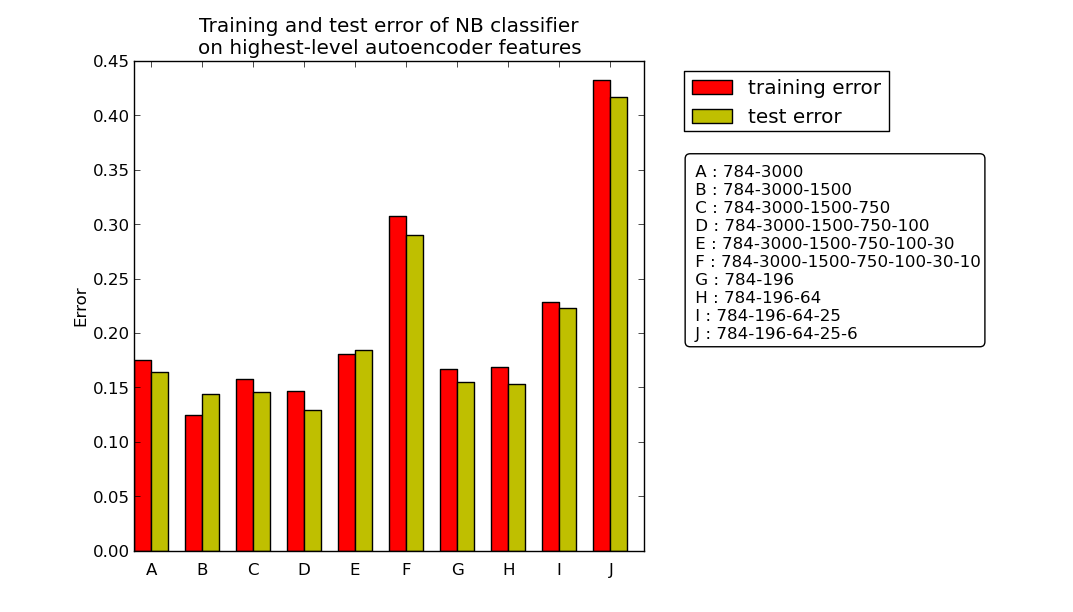
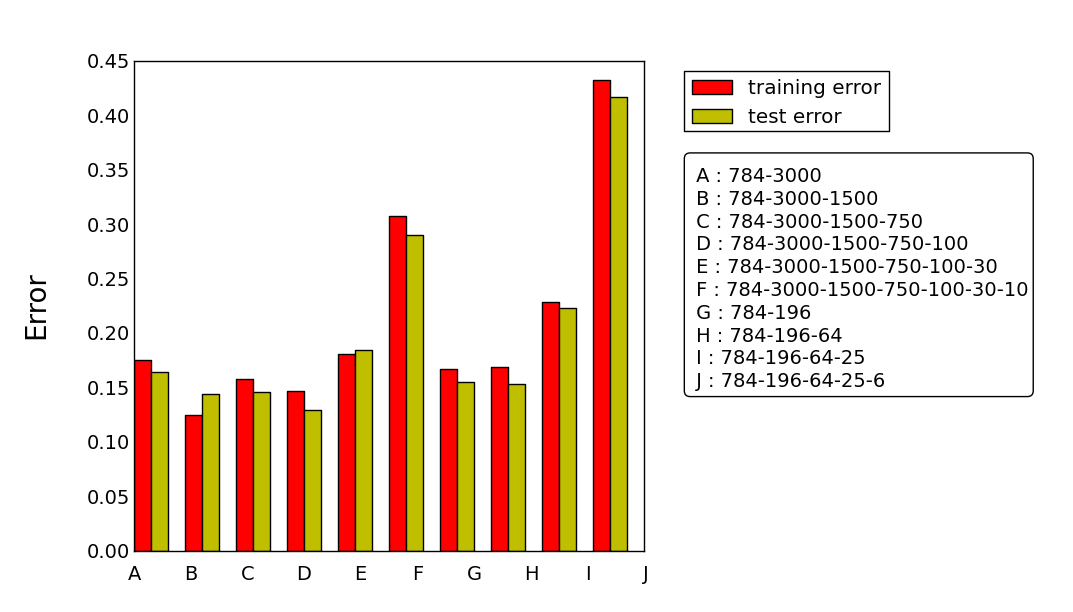
Beefed up labels and removed ticks from the error bar graph.

diff --git a/barGraph.py b/barGraph.py
@@ -25,10 +25,10 @@ for i, e in enumerate(errors):
     axes += ax.bar(ind[i], e[1][0], width, color='r')
     axes += ax.bar(ind[i]+width, e[1][1], width, color='y')
 
-ax.set_ylabel('Error')
-ax.set_title('Training and test error of NB classifier\non highest-level autoencoder features')
-ax.set_xticks(ind+width)
-ax.set_xticklabels( ['\n'+chr(i) for i in range(ord('A'),ord('A')+len(errors))] )
+ax.set_ylabel('Error\n', fontsize=20)
+for tick in ax.yaxis.get_major_ticks():
+    tick.label.set_fontsize(14) 
+ax.set_xticklabels( ['\n'+chr(i) for i in range(ord('A'),ord('A')+len(errors))] , fontsize=14)
 
 textstr = ""
 l = ord('A')
@@ -37,12 +37,24 @@ for i in range(len(errors)):
     l+=1
 
 props = dict(boxstyle='round', facecolor='white', alpha=1)
-ax.text(1.09, 0.8, textstr, transform=ax.transAxes, fontsize=12,
+ax.text(1.09, 0.8, textstr, transform=ax.transAxes, fontsize=14,
         verticalalignment='top', bbox=props)
 
 ax.legend([axes[0], axes[1]], ['training error', 'test error'], bbox_to_anchor=(1.5,1))
 
 fig = plt.gcf()
 fig.set_facecolor('white')
+plt.tick_params(\
+    axis='x',          # changes apply to the x-axis
+    which='both',      # both major and minor ticks are affected
+    bottom='off',      # ticks along the bottom edge are off
+    top='off',         # ticks along the top edge are off
+)
+plt.tick_params(\
+    axis='y',          # changes apply to the x-axis
+    which='both',      # both major and minor ticks are affected
+    left='off',        # ticks along the bottom edge are off
+    right='off',         # ticks along the top edge are off
+)
 plt.subplots_adjust(right=0.6)
 plt.show()

diff --git a/report/report.tex b/report/report.tex
@@ -93,7 +93,12 @@ These autoencoders essentially function by compressing and decompressing the inp
 
 \section{Results}\label{sec:results}
 
-
+\begin{figure}[htbp!]
+    \centering
+    \includegraphics[width=\textwidth]{trainingAndTestError.png}
+    \caption{Training and test error of NB classifier on highest-level autoencoder features}
+    \label{fig:error}
+\end{figure}%
 
 \begin{figure}[htbp!]
     \centering
